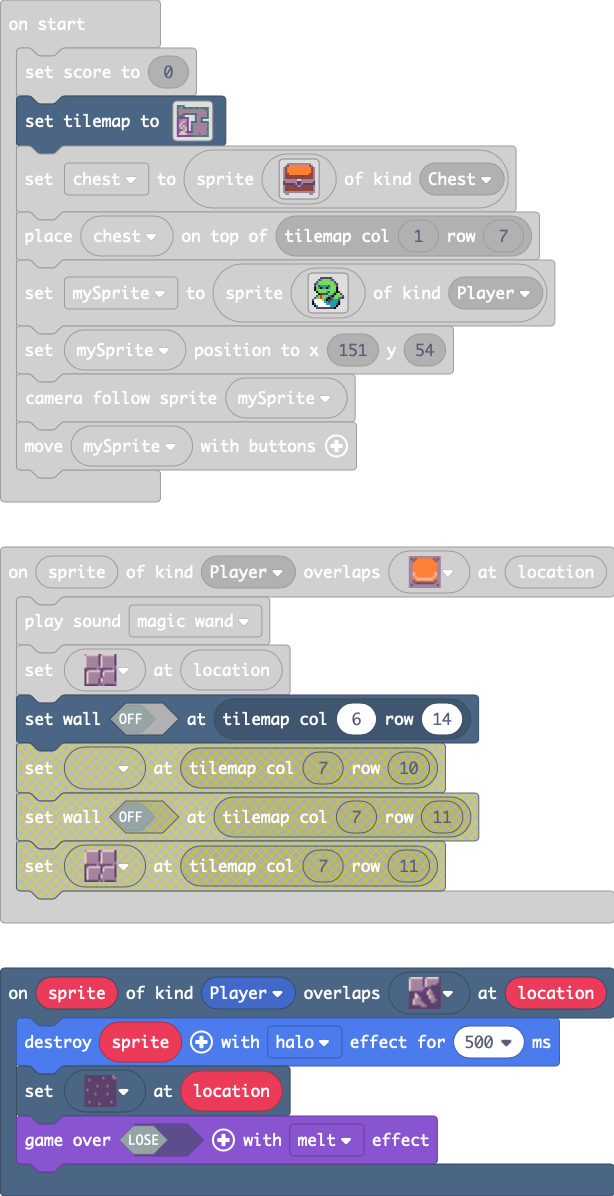
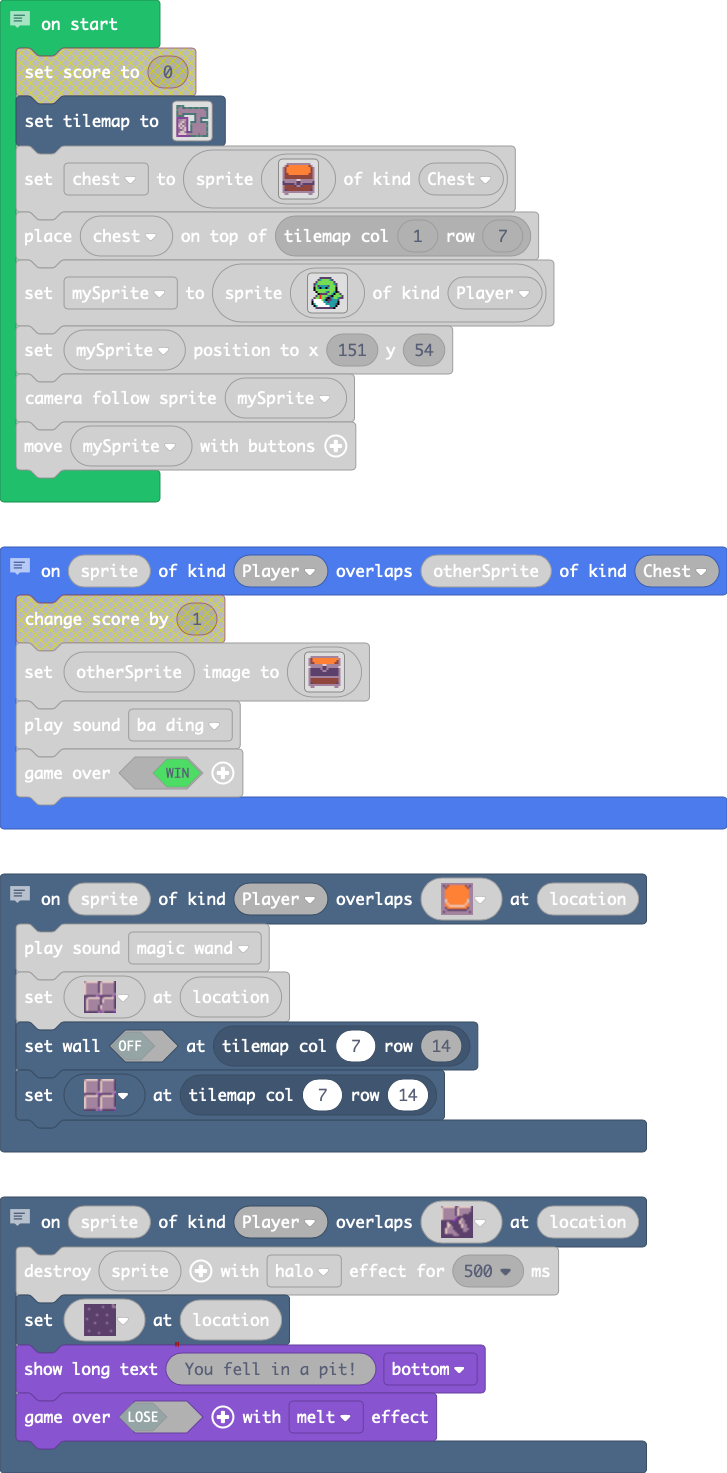
Added comments.

diff --git a/main.ts b/main.ts
@@ -22,13 +22,16 @@ namespace myTiles {
 . . . . . . . . . . . . . . . . 
 `
 }
+// When the player steps on a trap, they fall in a pit
+// and the game ends.
 scene.onOverlapTile(SpriteKind.Player, sprites.dungeon.floorDark3, function (sprite, location) {
     sprite.destroy()
     tiles.setTileAt(location, sprites.dungeon.darkGroundSouthWest1)
+    game.showLongText("You fell in a pit!", DialogLayout.Bottom)
     game.over(false)
 })
+// When player finds treasure chest, they win.
 sprites.onOverlap(SpriteKind.Player, SpriteKind.Chest, function (sprite, otherSprite) {
-    info.changeScoreBy(1)
     otherSprite.setImage(img`
 . b b b b b b b b b b b b b b . 
 b e 4 4 4 4 4 4 4 4 4 4 4 4 4 b 
@@ -50,12 +53,13 @@ b b b b b b b b b b b b b b b b
     music.baDing.play()
     game.over(true)
 })
+// When player pushes button, open door.
 scene.onOverlapTile(SpriteKind.Player, sprites.dungeon.buttonOrange, function (sprite, location) {
     music.magicWand.play()
     tiles.setTileAt(location, sprites.dungeon.floorDark4)
-    tiles.setWallAt(tiles.getTileLocation(6, 14), false)
+    tiles.setWallAt(tiles.getTileLocation(7, 14), false)
+    tiles.setTileAt(tiles.getTileLocation(7, 14), sprites.dungeon.floorDark0)
 })
-info.setScore(0)
 tiles.setTilemap(tiles.createTilemap(
[1 lines of base64/hex data omitted]
             img`
@@ -73,7 +77,7 @@ tiles.setTilemap(tiles.createTilemap(
 2 . . . . 2 . 2 . . . . . . . 2 
 2 . . . . 2 . 2 . . . . . . . 2 
 2 . . . . 2 2 2 . . . . . . . 2 
-2 . . . . . . . . . . . . . . 2 
+2 . . . . . . 2 . . . . . . . 2 
 2 2 2 2 2 2 2 2 2 2 2 2 2 2 2 2 
 `,
             [myTiles.tile0,sprites.dungeon.greenOuterNorthWest,sprites.dungeon.greenOuterWest1,sprites.dungeon.greenOuterSouthEast,sprites.dungeon.greenOuterSouth0,sprites.dungeon.greenOuterSouthWest,sprites.dungeon.greenOuterNorthEast,sprites.dungeon.greenOuterNorth0,sprites.dungeon.greenOuterNorth2,sprites.dungeon.purpleInnerSouthWest,sprites.dungeon.greenInnerSouthWest,sprites.dungeon.greenInnerNorthWest,sprites.dungeon.floorDark0,sprites.dungeon.greenOuterEast0,sprites.dungeon.greenInnerNorthEast,sprites.dungeon.greenInnerSouthEast,sprites.dungeon.greenOuterWest2,sprites.dungeon.greenSwitchUp,sprites.dungeon.greenSwitchDown,sprites.dungeon.floorLight0,sprites.dungeon.purpleOuterNorthWest,sprites.dungeon.purpleOuterSouthEast,sprites.dungeon.purpleOuterNorthEast,sprites.dungeon.purpleOuterWest0,sprites.dungeon.purpleOuterWest1,sprites.dungeon.purpleOuterEast0,sprites.dungeon.purpleOuterEast1,sprites.dungeon.purpleOuterSouth1,sprites.dungeon.purpleOuterSouth0,sprites.dungeon.purpleOuterSouthWest,sprites.dungeon.purpleOuterNorth0,sprites.dungeon.purpleOuterNorth1,sprites.dungeon.greenOuterSouth1,sprites.dungeon.greenOuterWest0,sprites.dungeon.doorLockedWest,sprites.dungeon.greenOuterEast1,sprites.dungeon.purpleSwitchUp,sprites.dungeon.greenOuterEast2,sprites.dungeon.greenOuterSouth2,sprites.dungeon.purpleInnerNorthEast,sprites.dungeon.purpleInnerNorthWest,sprites.dungeon.doorClosedEast,sprites.dungeon.darkGroundSouthWest1,sprites.dungeon.floorDark5,sprites.dungeon.floorDark3,sprites.dungeon.floorDark1,sprites.dungeon.floorDark4,sprites.dungeon.floorLight4,sprites.dungeon.floorLight3,sprites.dungeon.floorMixed,sprites.dungeon.buttonOrange],
